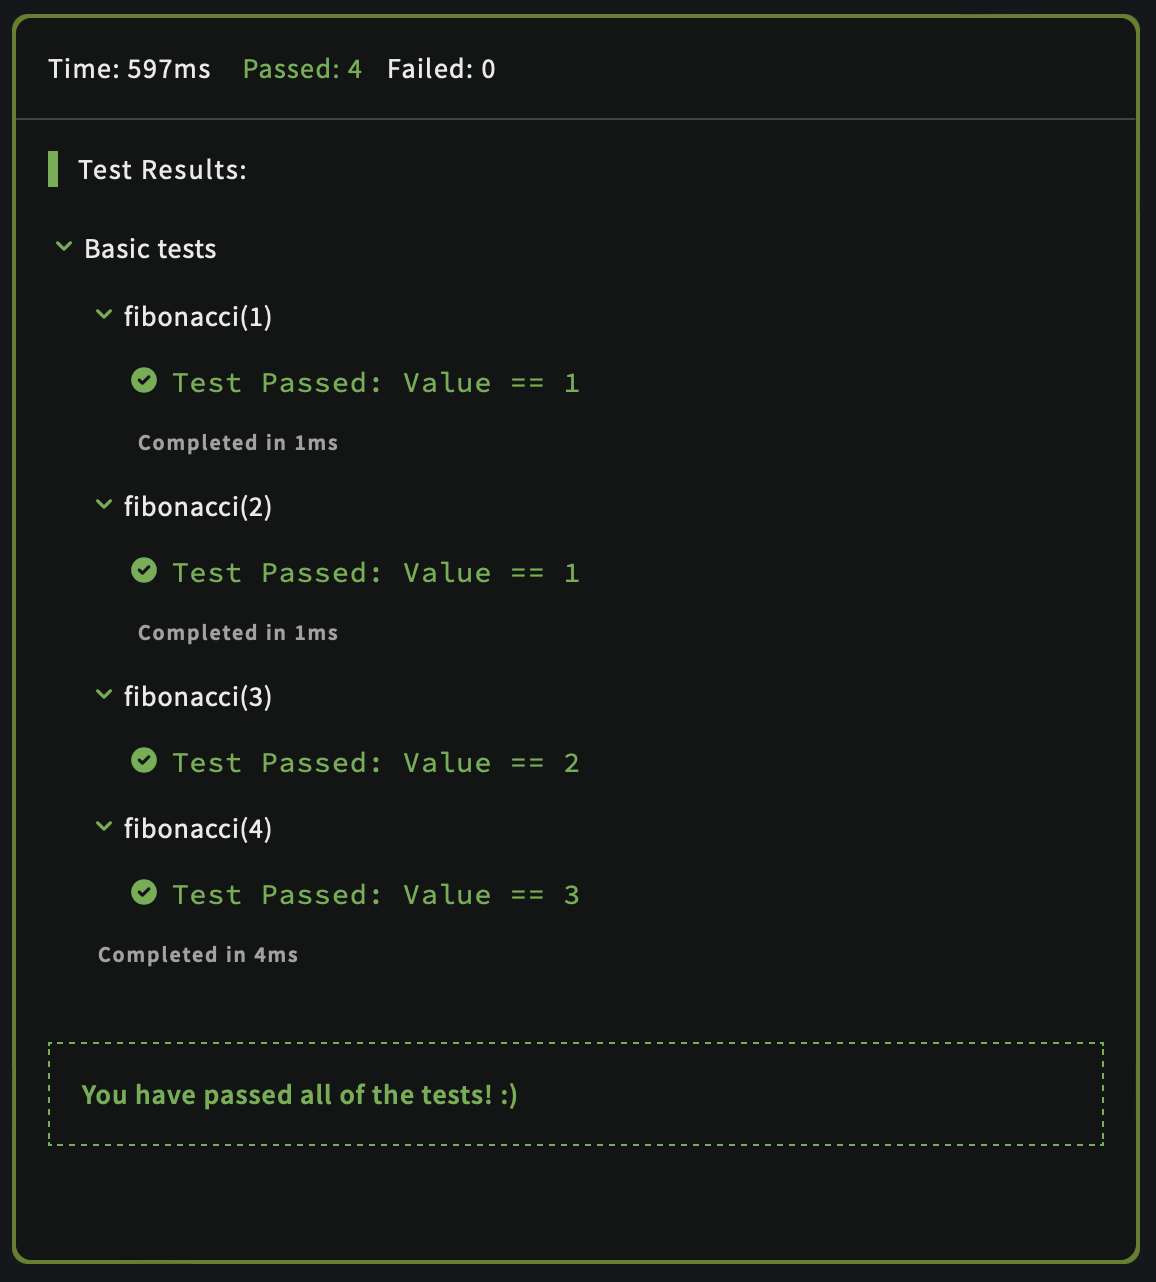
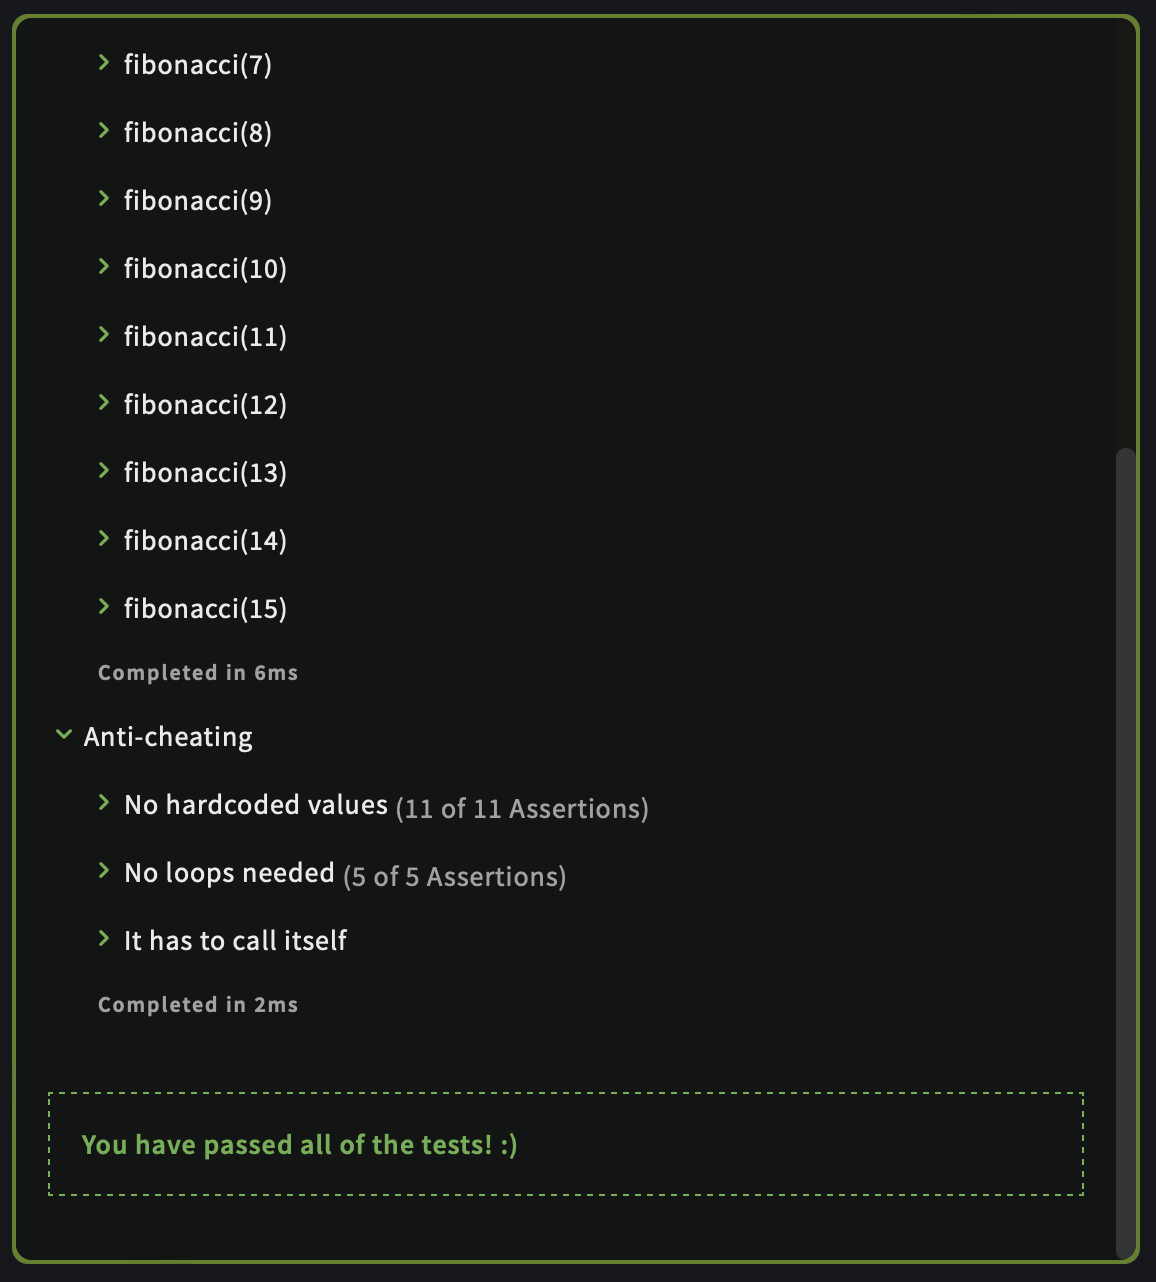
поправила подход - вместо итеративного сделала рекурсивный

diff --git a/fibonacci/solution-recursive.js b/fibonacci/solution-recursive.js
@@ -1,0 +1,9 @@
+const fibonacci = n => {
+  if (n <= 0) {
+       return 0;
+   }
+   if (n <= 2) {
+       return 1;
+   }
+   return fibonacci(n - 1) + fibonacci(n - 2)
+};
